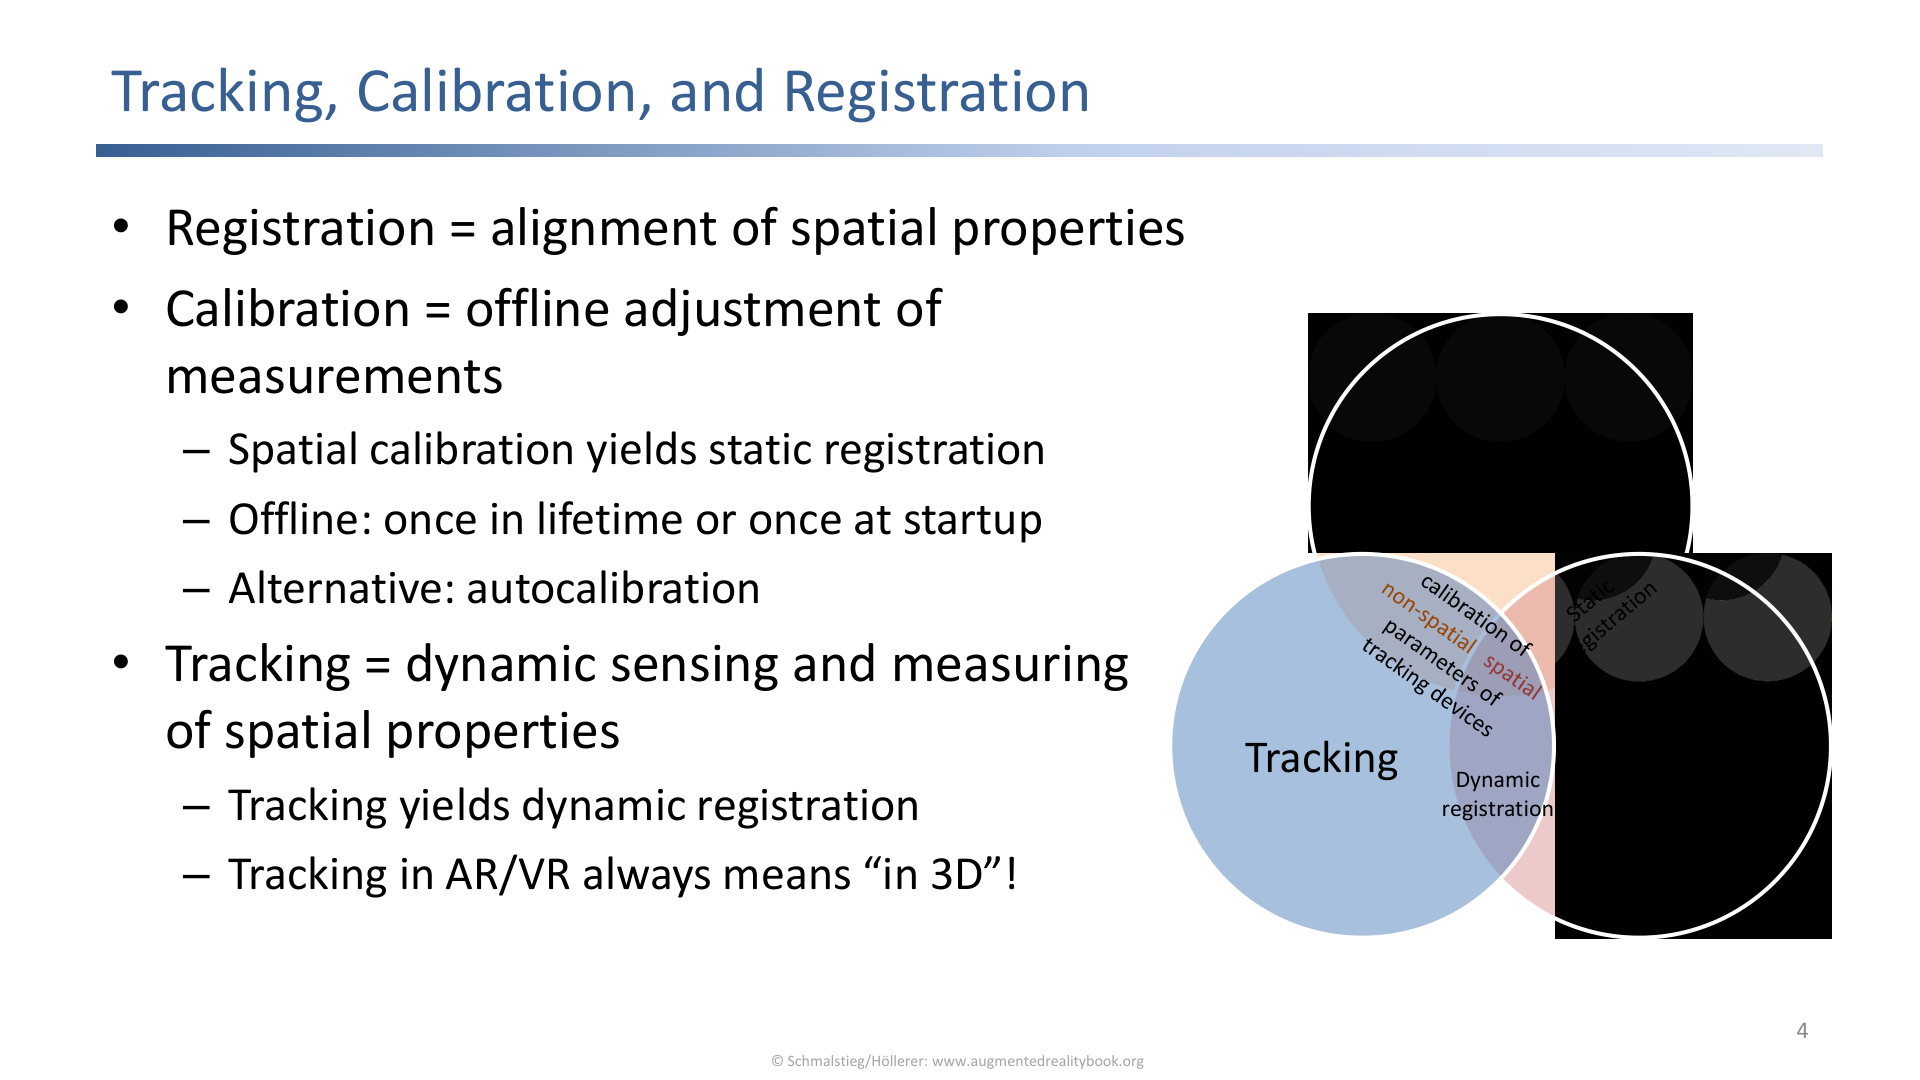
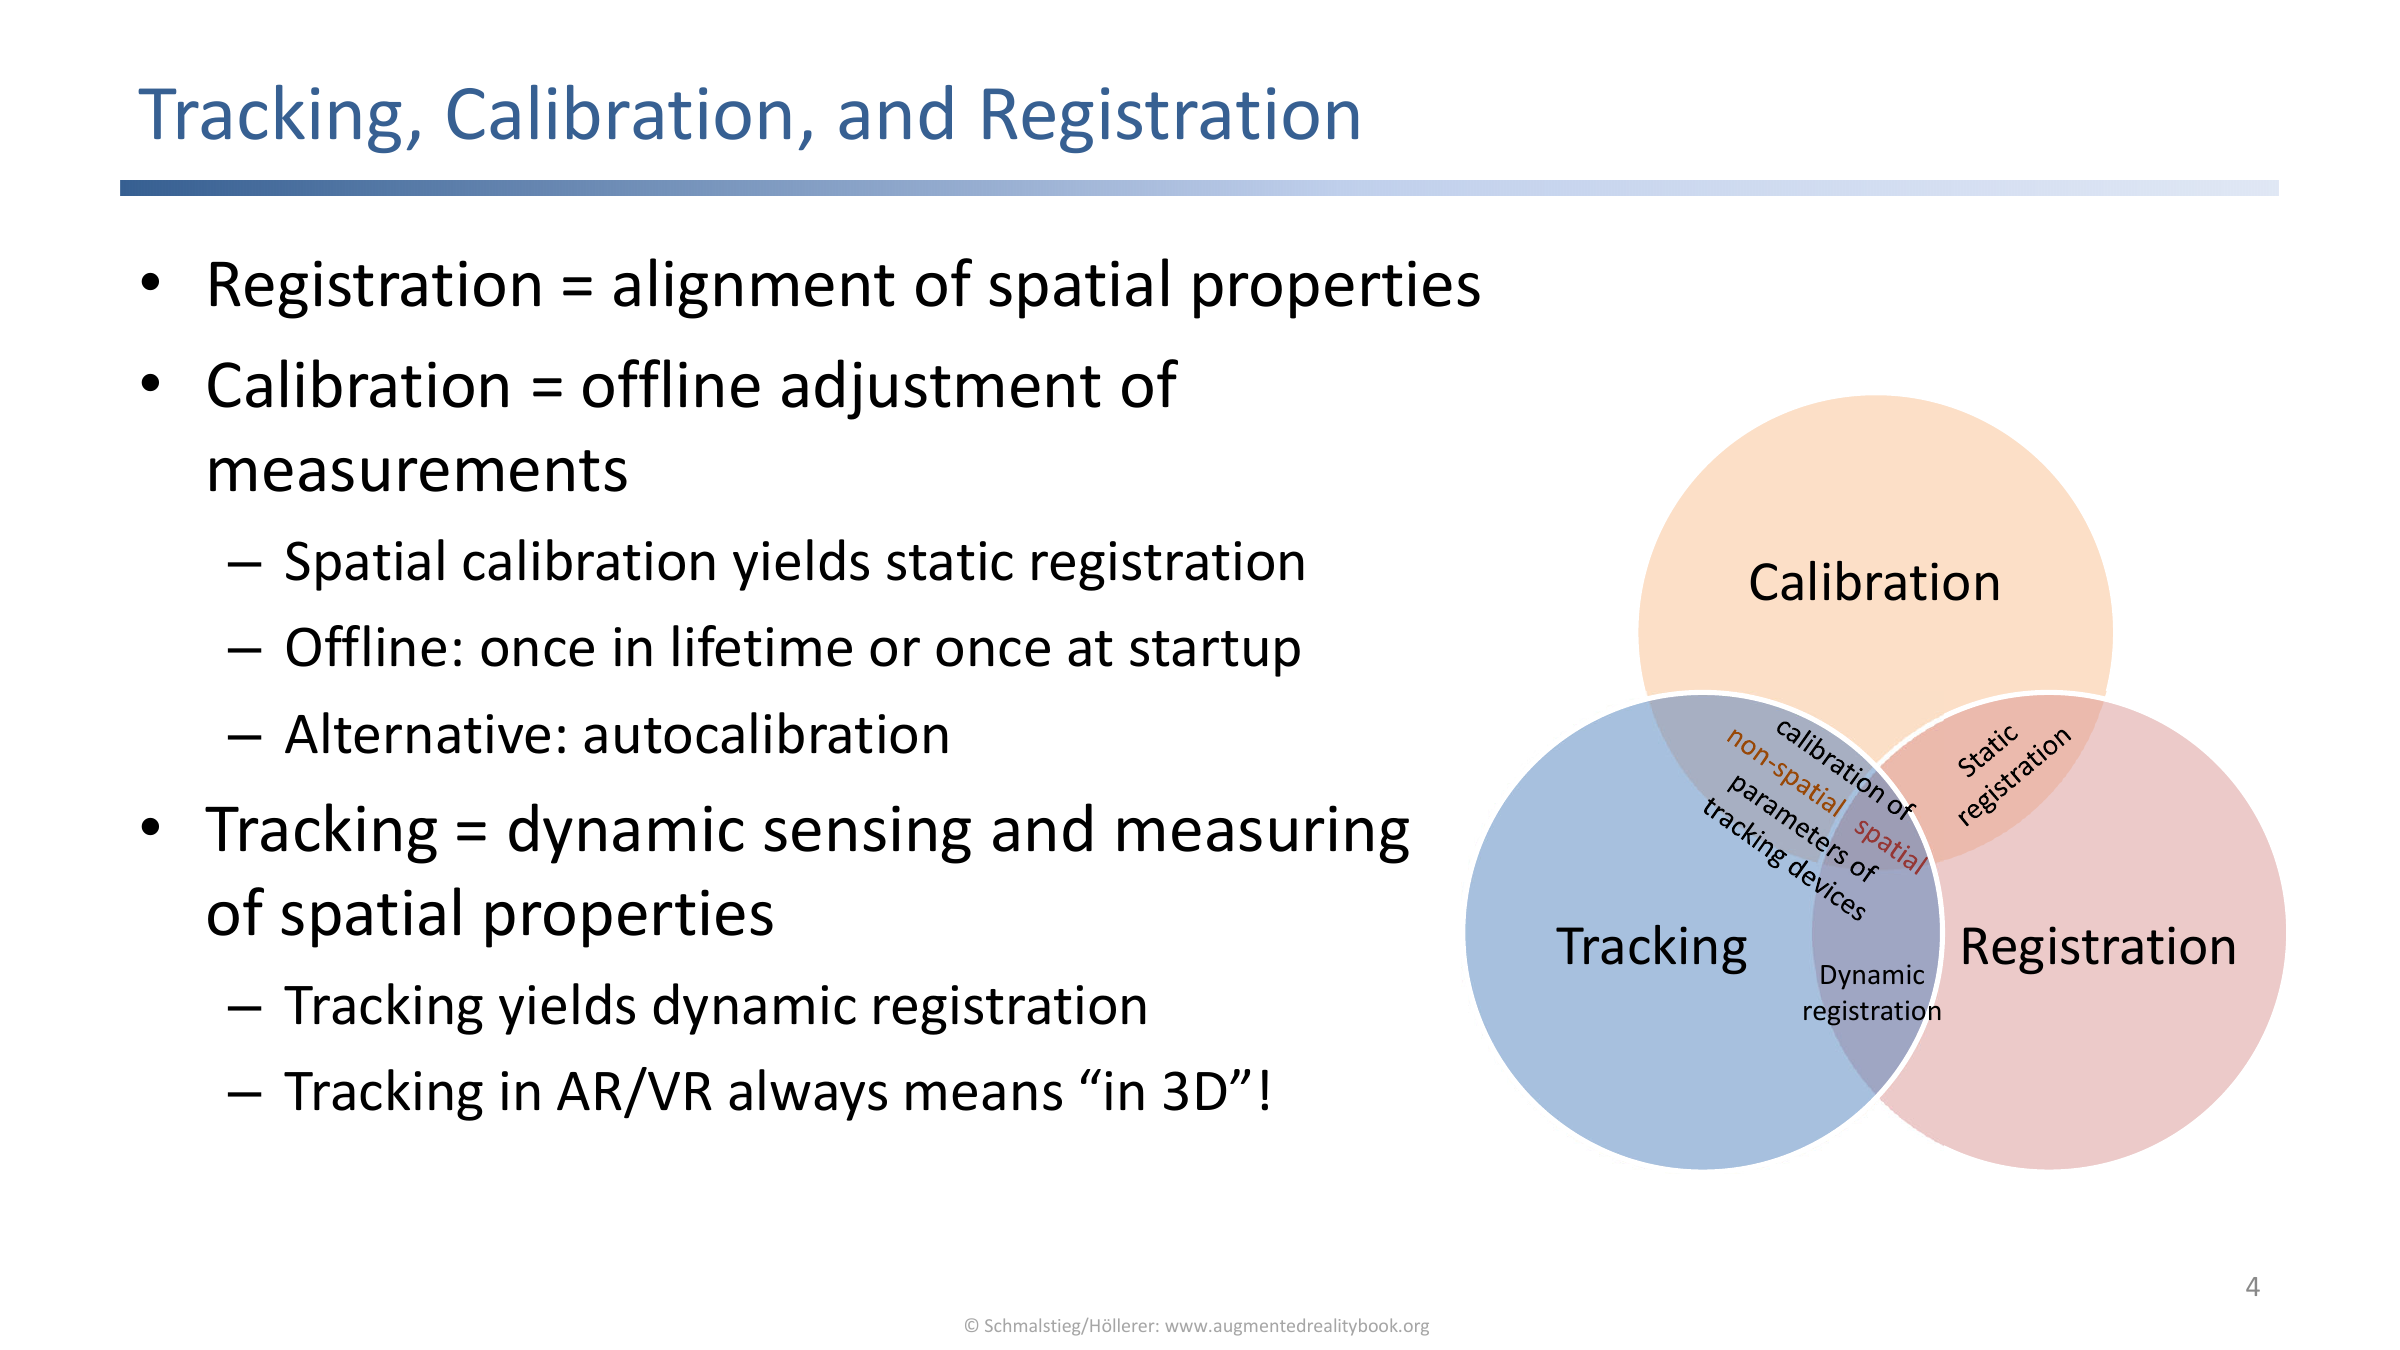
New VR Screenshots via SlideLink

diff --git a/content/notes/lectures/virtualaugmentedreality/03-1_VR-AR_hardware.md b/content/notes/lectures/virtualaugmentedreality/03-1_VR-AR_hardware.md
@@ -43,9 +43,9 @@ Binocular cues require both eyes:
 
 ## 2. Stereo Rendering
 
-![[pictures/virtualaugmentedreality/03-1/Lecture03-1_Pg017_Parallax.png]]
+![[pictures/virtualaugmentedreality/03-1/Lecture03-1_Pg020_Positive_Parallax.png]]
 
-<p class="image-caption">Parallax determines whether a point appears on, behind, or in front of the projection plane.</p>
+<p class="image-caption">Positive parallax places the point behind the projection plane.</p>
 
 Stereo rendering creates separate left-eye and right-eye images. The main parallax cases are:
 
@@ -54,9 +54,25 @@ Stereo rendering creates separate left-eye and right-eye images. The main parall
 - **Negative parallax**: object appears in front of the projection plane.
 - **Divergent parallax**: eyes would need to diverge outward; this is uncomfortable and should be avoided.
 
-![[pictures/virtualaugmentedreality/03-1/Lecture03-1_Pg025_Off_Axis_Rendering.png]]
+![[pictures/virtualaugmentedreality/03-1/Lecture03-1_Pg021_Zero_Parallax.png]]
 
-<p class="image-caption">Off-axis rendering keeps cameras parallel and shifts the projection frusta; toe-in rendering creates vertical parallax.</p>
+<p class="image-caption">Zero parallax places the point on the projection plane.</p>
+
+![[pictures/virtualaugmentedreality/03-1/Lecture03-1_Pg022_Negative_Parallax.png]]
+
+<p class="image-caption">Negative parallax places the point in front of the projection plane.</p>
+
+![[pictures/virtualaugmentedreality/03-1/Lecture03-1_Pg023_Divergent_Parallax.png]]
+
+<p class="image-caption">Divergent parallax is unnatural because the optical paths never cross.</p>
+
+![[pictures/virtualaugmentedreality/03-1/Lecture03-1_Pg024_Toe_In_Rendering.png]]
+
+<p class="image-caption">Toe-in rendering is incorrect because it creates vertical parallax, which the visual system does not use for stereo depth.</p>
+
+![[pictures/virtualaugmentedreality/03-1/Lecture03-1_Pg025_Off_Axis_Rendering_Correct.png]]
+
+<p class="image-caption">Off-axis rendering is the correct approach: cameras remain parallel while the projection frusta are shifted.</p>
 
 The exam-critical comparison:
 

diff --git a/content/notes/lectures/virtualaugmentedreality/01_VR-AR.md b/content/notes/lectures/virtualaugmentedreality/01_VR-AR.md
@@ -82,11 +82,11 @@ Related terms:
 
 ## 6. Hype and Adoption
 
-![[pictures/virtualaugmentedreality/01/Lecture01_Pg077_Hype_Cycle.png]]
+![[pictures/virtualaugmentedreality/01/Lecture01_Pg079_AR_VR_Hype_Cycle.png]]
 
-<p class="image-caption">The hype-cycle framing explains why VR/AR repeatedly alternates between inflated expectations, disappointment, and practical adoption.</p>
+<p class="image-caption">The lecture places AR and VR on Gartner's hype cycle across multiple years, showing AR moving through inflated expectations and VR rising along the slope of enlightenment by 2017.</p>
 
-Many VR/AR waves follow the same adoption pattern: a promising technical demo creates hype, real constraints become visible, the field cools down, then useful systems emerge where the value proposition survives the constraints.
+The point is more specific than a generic hype-cycle diagram: AR and VR do not move through adoption at the same pace. The slide marks where Gartner placed AR and VR between 1995 and 2017, making the hype cycle a way to discuss the field's maturity rather than only a general technology-adoption curve.
 
 ## Exam Focus
 
